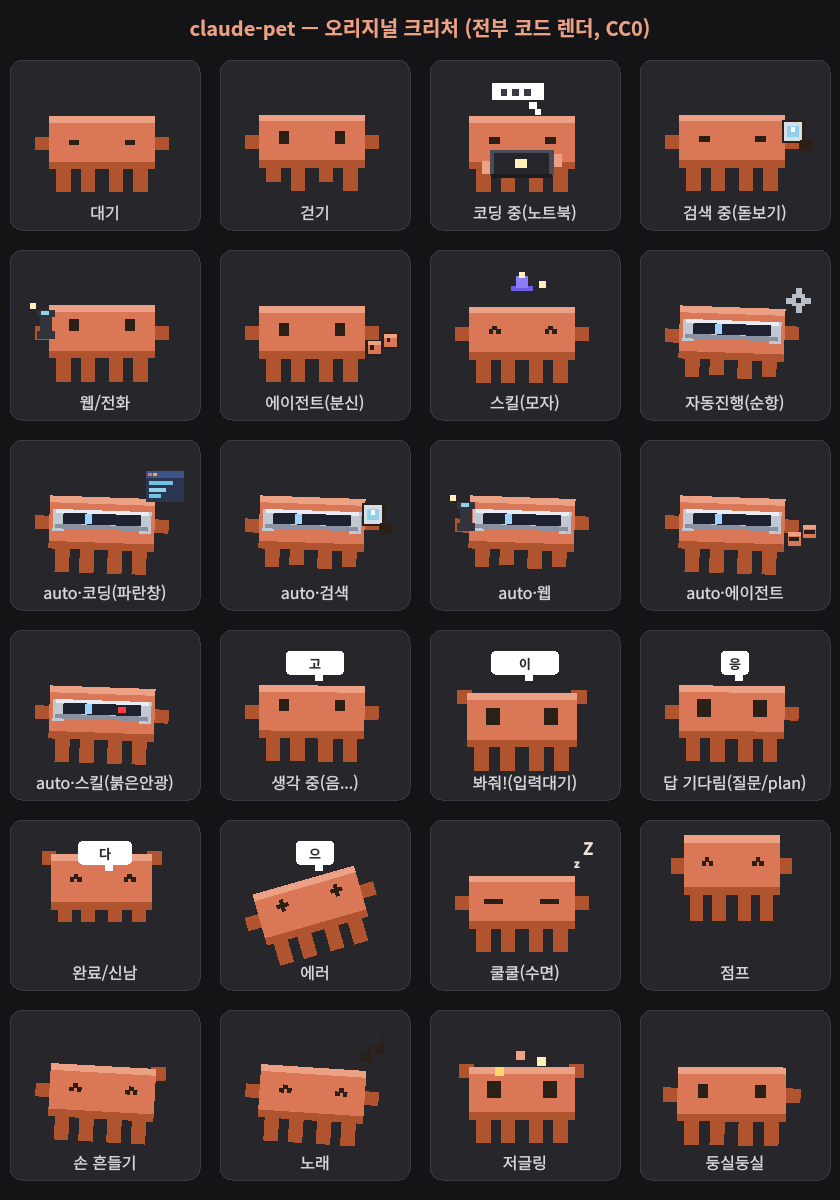
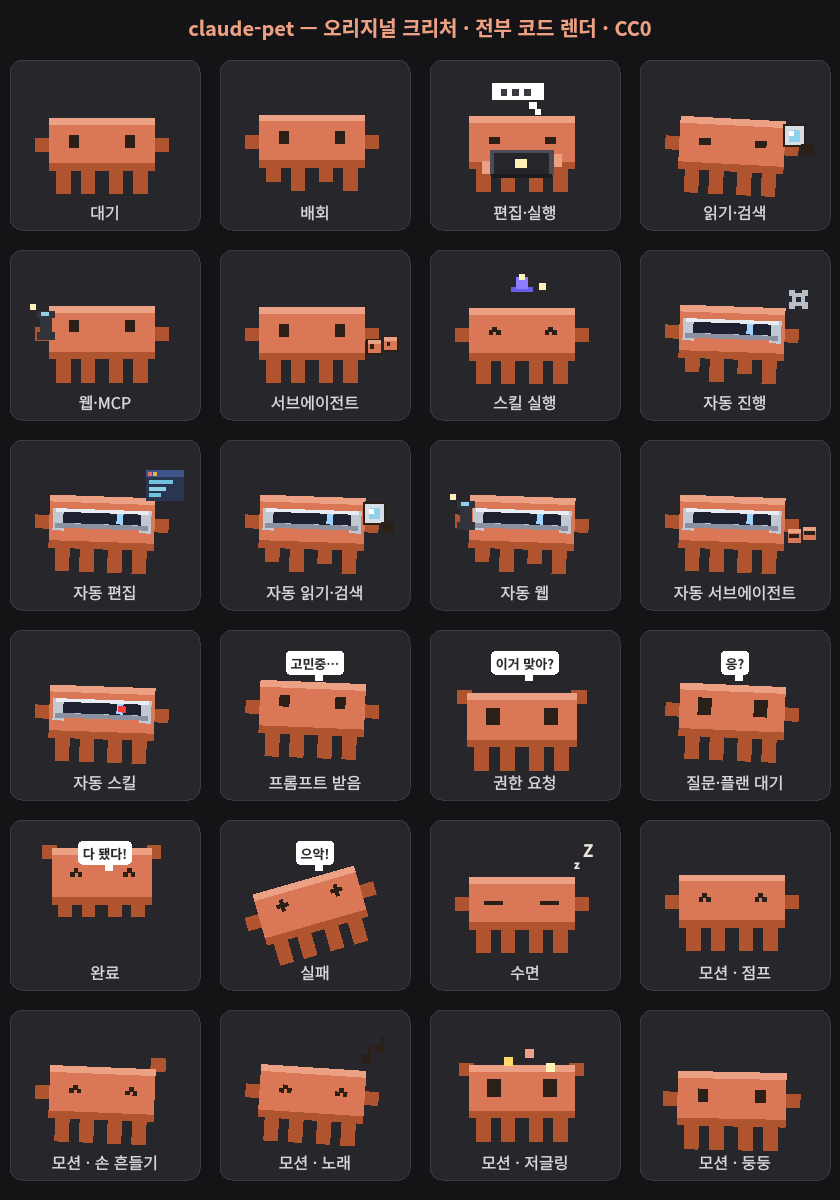
docs: refresh states sheet — full speech bubbles + action-based captions
Freeze speech states at a frame where the bubble is fully typed (was catching
the type-on animation at 1 char). Rewrite cell captions to name the triggering
action instead of the prop, drop parentheses.

diff --git a/src/creature.py b/src/creature.py
@@ -529,18 +529,20 @@ if __name__ == "__main__":
     from PyQt6.QtCore import Qt, QRectF
     app = QGuiApplication(sys.argv)
 
-    labels = {"idle": "대기", "walk": "걷기", "work_computer": "코딩 중(노트북)",
-              "work_search": "검색 중(돋보기)", "work_web": "웹/전화",
-              "work_agent": "에이전트(분신)", "work_skill": "스킬(모자)",
-              "autopilot": "자동진행(순항)",
-              "auto_computer": "auto·코딩(파란창)", "auto_search": "auto·검색",
-              "auto_web": "auto·웹", "auto_agent": "auto·에이전트",
-              "auto_skill": "auto·스킬(붉은안광)",
-              "thinking": "생각 중(음...)", "attention": "봐줘!(입력대기)",
-              "asking": "답 기다림(질문/plan)",
-              "celebrate": "완료/신남", "error": "에러", "sleeping": "쿨쿨(수면)",
-              "jump": "점프", "wave": "손 흔들기", "sing": "노래", "juggle": "저글링",
-              "float": "둥실둥실"}
+    # caption = what triggers this animation (no parenthetical prop notes)
+    labels = {"idle": "대기", "walk": "배회",
+              "work_computer": "편집·실행", "work_search": "읽기·검색",
+              "work_web": "웹·MCP", "work_agent": "서브에이전트",
+              "work_skill": "스킬 실행",
+              "autopilot": "자동 진행", "auto_computer": "자동 편집",
+              "auto_search": "자동 읽기·검색", "auto_web": "자동 웹",
+              "auto_agent": "자동 서브에이전트", "auto_skill": "자동 스킬",
+              "thinking": "프롬프트 받음", "attention": "권한 요청",
+              "asking": "질문·플랜 대기", "celebrate": "완료",
+              "error": "실패", "sleeping": "수면",
+              "jump": "모션 · 점프", "wave": "모션 · 손 흔들기",
+              "sing": "모션 · 노래", "juggle": "모션 · 저글링",
+              "float": "모션 · 둥둥"}
     order = ["idle", "walk", "work_computer", "work_search", "work_web",
              "work_agent", "work_skill", "autopilot",
              "auto_computer", "auto_search", "auto_web", "auto_agent", "auto_skill",
@@ -559,7 +561,7 @@ if __name__ == "__main__":
     p.setRenderHint(QPainter.RenderHint.TextAntialiasing, True)
     p.setPen(QPen(QColor("#ECA184"))); f = QFont("Sans", 15); f.setBold(True); p.setFont(f)
     p.drawText(QRectF(0, 14, W, 26), Qt.AlignmentFlag.AlignCenter,
-               "claude-pet — 오리지널 크리처 (전부 코드 렌더, CC0)")
+               "claude-pet — 오리지널 크리처 · 전부 코드 렌더 · CC0")
     from PyQt6.QtGui import QPainterPath
     for i, st in enumerate(order):
         c = i % cols; r = i // cols
@@ -570,7 +572,14 @@ if __name__ == "__main__":
         # draw creature roughly centered
         gx = x0 + (cellw - GRID_W * u) / 2
         gy = y0 + (cellh - GRID_H * u) / 2 - 6
-        frame = 100 if st == "work_computer" else (6 if st == "walk" else 3)
+        if st in SPEECH:            # freeze where the bubble is fully typed & held
+            frame = len(SPEECH[st]) * 7 + 5
+        elif st == "work_computer":
+            frame = 100
+        elif st == "walk":
+            frame = 6
+        else:
+            frame = 8
         draw_creature(p, gx, gy, u, st, frame)
         p.setPen(QPen(QColor("#D7D7DC"))); p.setFont(QFont("Sans", 12))
         p.drawText(QRectF(x0, y0 + cellh - 40, cellw, 24), Qt.AlignmentFlag.AlignCenter, labels[st])